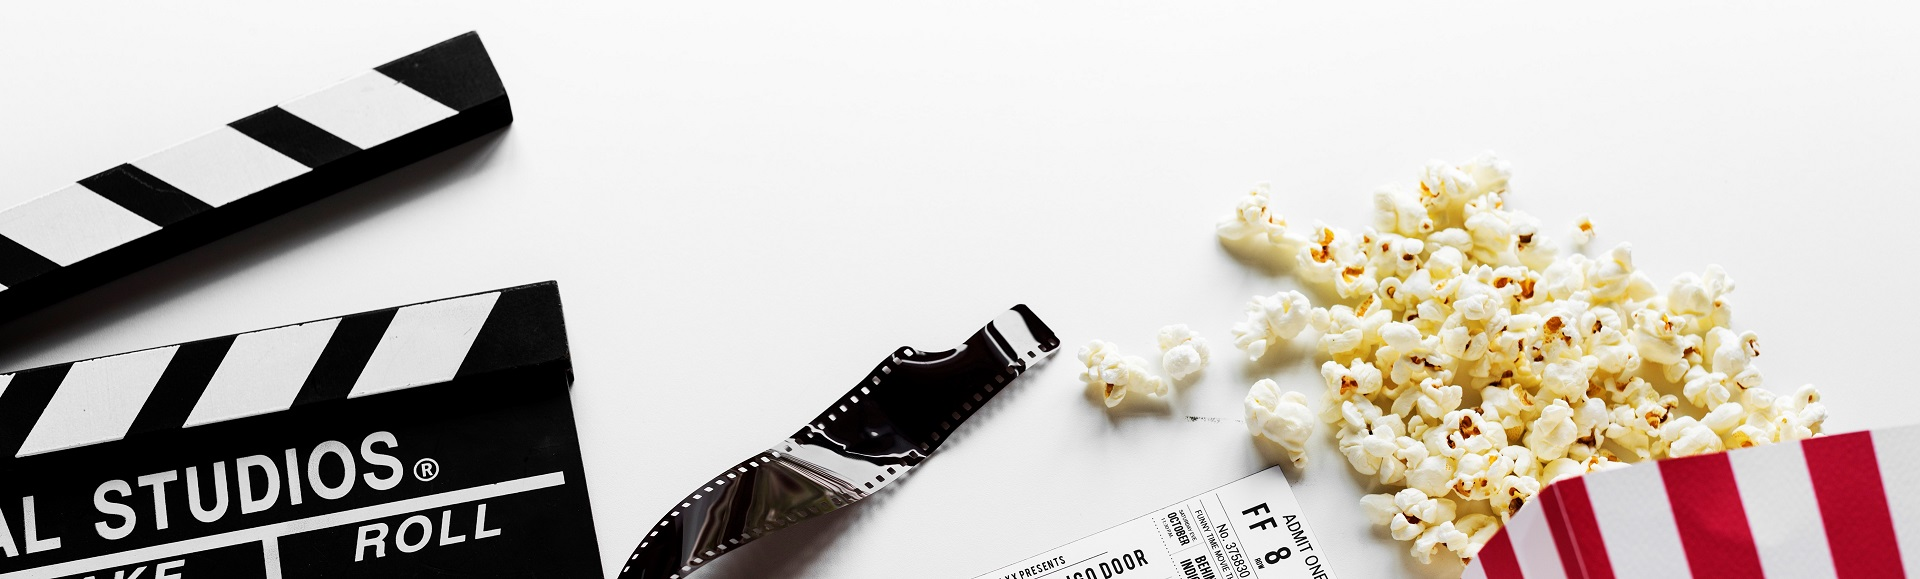
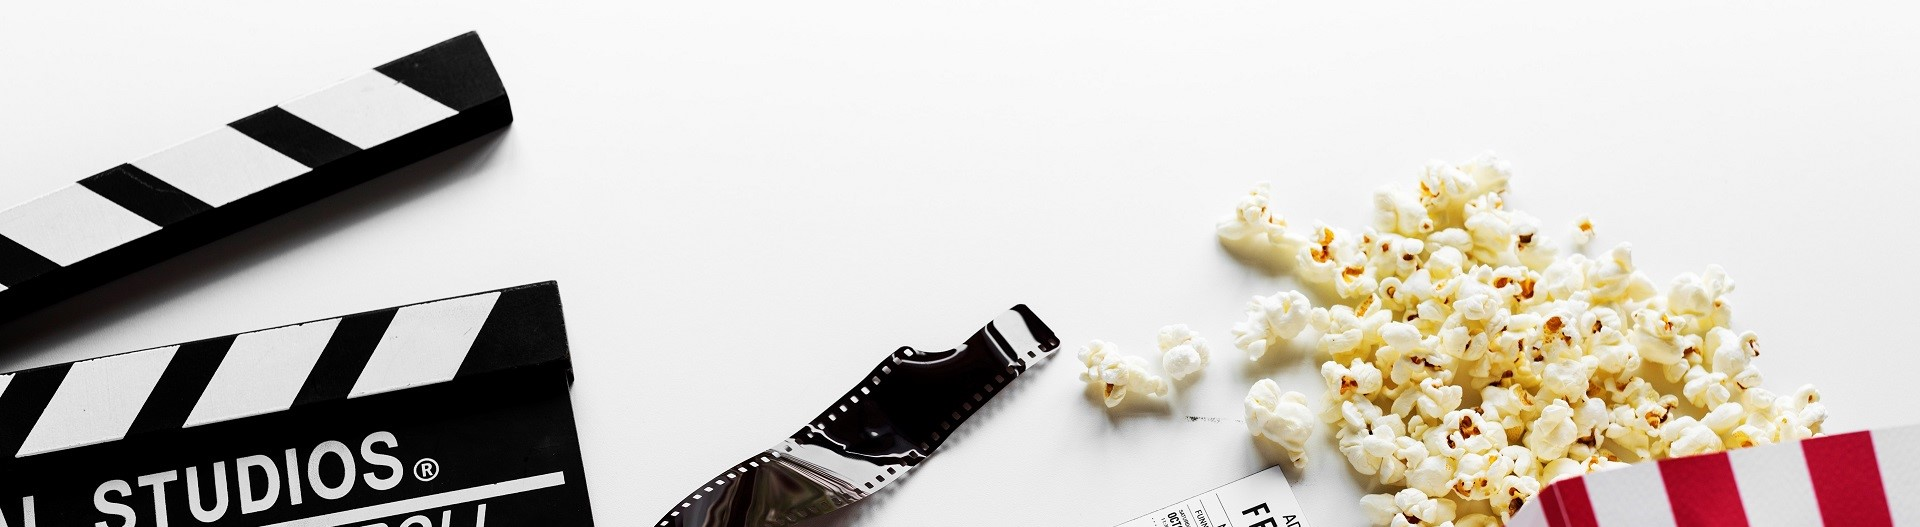
make all major page

Changed region(s): [[0.0, 0.0911, 1.0, 1.0], [0.2188, 0.0607, 0.25, 0.0911]]

diff --git a/src/style.css b/src/style.css
@@ -1,7 +1,11 @@
 @charset "UTF-8";  /* 이 페이지 인코딩하는거 */
 @import url('https://fonts.googleapis.com/css?family=Stylish&subset=korean');
 
-body{font-family: 'Stylish', "맑은 고딕", 'Malgun Gothic',"돋움",dotum; margin: 0; min-width: 960px;}
+body{
+  font-family: 'Stylish', "맑은 고딕", 'Malgun Gothic',"돋움",dotum;
+  margin: 0;
+  min-width: 960px;
+}
 
 /* div 경계선은 디자인 확인용.
 세 줄 전체 블록하고 Ctrl / 누르면 한번에 주석처리 가능.
@@ -15,40 +19,6 @@ li{border: 2px solid green;} */
 /**********************************************************************************/
 /*                   모든 페이지에 적용되는 코드                                    */
 /**********************************************************************************/
-/* 전체 프레임 */
-.frame{
-  margin:0;      /* 바깥 여백 */
-  padding: 0;    /* 안쪽 여백 */
-  border: 0;     /* 테두리 */
-}
-
-/* 상단 탭인데, 이제는 안 씀. 드롭다운 탭으로 변경.*/
-.tab{
-  position: fixed;
-  width: 100%;
-  z-index: 2;
-  display: grid;  /* 그리드로 보여줌 */
-  grid-template-columns: 1fr 1fr 1fr 1fr 1fr 2fr;
-  /* 그리드 열으로 1:1:1:1:1:2 비율 */
-}
-
-.tabitem{
-  background-color: #ff8500;    /* #RGB, #RRGGBB. 00은 검은색, ff는 흰색 */
-  display: block;  /* 블록은 한 블록 단위, inline으로 하면 한 줄 전체 사용. */
-  font-size: x-large;  /* 폰트 사이즈 설정하는 방법은 종류가 많아요.. */
-  padding: 10px 0px 10px 0px;  /* 위에서부터 시계방향. 위, 오른쪽, 아래쪽, 왼쪽 */
-  text-align: center;  /* 중앙정렬 */
-  text-decoration: none;  /* 상단탭 링크에 밑줄 없애려고. */
-}
-
-.tabNow{
-  background-color: #ffcc22;  /* 현재 선택 탭은 좀 더 밝은 색. */
-  display: block;
-  font-size: x-large;
-  padding: 10px 0px 10px 0px;
-  text-align: center;
-  text-decoration: none;
-}
 
 /* 드롭 다운 메뉴 구성 */
 .tab_drop{
@@ -81,7 +51,7 @@ li{border: 2px solid green;} */
   display: block;
   line-height: 50px;
   margin: 0px;
-  padding: 0px 25px;
+  padding: 0px;
   text-align: center;
   text-decoration: none;
 }
@@ -125,11 +95,17 @@ li{border: 2px solid green;} */
   text-decoration: none;
 }
 
+.settings{
+  float: right;
+  margin: 0px 10px 0px 0px;
+}
+
 /* 헤더 */
 .header{
   /* 이거랑 header_text는 사진 위에 글씨 올리는 코드인데 저도 구글링한거라...*/
   /* 생각해보니 여기서 url을 저렇게 정해두면 모든 페이지에서 class="header"를 사용하면 똑같은 이미지가 보이네요. 나중에 수정할게요. */
   position: relative;
+  margin-top: 50px;
   display: inline-block;
 }
 
@@ -145,7 +121,6 @@ li{border: 2px solid green;} */
 
 .header_img{  /* 헤더 이미지 부분 */
   display: block;
-  height: auto;
 }
 
 /* content 헤더 제외한 부분. 사진 아래로. */

diff --git a/src/codegenerator.js b/src/codegenerator.js
@@ -1,5 +1,5 @@
-var pages = ['news','music','movie','sport','book','fun','setting']
-var pageskr = ['뉴스','음악','영화','스포츠','책','유머','탭 설정']
+var pages = ['news','music','movie','book','sports','webtoon','fun','setting']
+var pageskr = ['뉴스','음악','영화','책','스포츠','웹툰','유머','탭 설정']
 
 var filmchart=[// 링크 주소, 이미지 주소, 영화 제목 순서
   'https://movie.naver.com/movie/bi/mi/basic.nhn?code=167638','https://movie-phinf.pstatic.net/20181106_289/1541478936071tmadh_JPEG/movie_image.jpg?type=m99_141_2','완벽한 타인',
@@ -68,7 +68,7 @@ var makecode={
                 <li><a href="#">시사</a></li>
               </ul>
             </li>
-            <li><a href="#">음악</a>
+            <li><a href="${dir_page}music.html">음악</a>
               <ul>
                 <li><a href="#">Top 10</a></li>
                 <li><a href="#">최신 앨범</a></li>
@@ -81,13 +81,13 @@ var makecode={
                 <li><a href="#">평점 및 리뷰</a></li>
               </ul>
             </li>
-            <li><a href="#">책</a>
+            <li><a href="${dir_page}book.html">책</a>
               <ul>
                 <li><a href="#">베스트 셀러</a></li>
                 <li><a href="#">스테디 셀러</a></li>
               </ul>
             </li>
-            <li><a href="#">스포츠</a>
+            <li><a href="${dir_page}sports.html">스포츠</a>
               <ul>
                 <li><a href="#">국내 야구</a></li>
                 <li><a href="#">해외 야구</a></li>
@@ -97,9 +97,9 @@ var makecode={
                 <li><a href="#">해외 농구</a></li>
               </ul>
             </li>
-            <li><a href="#">웹툰</a></li>
+            <li><a href="${dir_page}webtoon.html">웹툰</a></li>
             <li><a href="${dir_page}fun.html">FUN</a></li>
-            <li><a href="#" style="text-align:right;"><img src="${dir_img}tabicon.png" alt="" style="display:block;"></a></li>
+            <li><a href="#" class="settings"><img src="${dir_img}tabicon.png" alt="" style="display:block;"></a></li>
           </ul>
         </div>
       </div>

diff --git a/src/pages/sports.html b/src/pages/sports.html
@@ -1,0 +1,26 @@
+<!DOCTYPE html>
+<html lang="ko">
+  <head>
+    <meta charset="UTF-8"><!-- 페이지 인코딩 -->
+    <title>Juicy - 스포츠</title><!-- 브라우저 타이틀 바에 나오는 이름 -->
+    <link rel="stylesheet" href="../style.css"><!-- css, 자바스크립트 파일 가져오기-->
+    <script src="../codegenerator.js"></script><!-- 코드 자동생성 -->
+    <script src="../crawler.js"></script>
+  </head>
+  <body>
+    <script>
+      makecode.makedropdowntab("sports");  //상단 탭 자동 생성. 인자가 codegenerator.js에 있는 pages[] 항목과 일치해야 한다.
+    </script>
+    <div class="header">  <!-- 사진 들어가는 곳. -->
+      <div class="header_text">
+        <h1>스포츠</h1>
+      </div>
+      <div class="header_img">
+        <img src="../img/sports_head_img.jpg" alt="" width="100%">
+      </div>
+    </div>
+    <div class="content">
+
+    </div>
+  </body>
+</html>

diff --git a/src/pages/webtoon.html b/src/pages/webtoon.html
@@ -1,0 +1,26 @@
+<!DOCTYPE html>
+<html lang="ko">
+  <head>
+    <meta charset="UTF-8"><!-- 페이지 인코딩 -->
+    <title>Juicy - 웹툰</title><!-- 브라우저 타이틀 바에 나오는 이름 -->
+    <link rel="stylesheet" href="../style.css"><!-- css, 자바스크립트 파일 가져오기-->
+    <script src="../codegenerator.js"></script><!-- 코드 자동생성 -->
+    <script src="../crawler.js"></script>
+  </head>
+  <body>
+    <script>
+      makecode.makedropdowntab("webtoon");  //상단 탭 자동 생성. 인자가 codegenerator.js에 있는 pages[] 항목과 일치해야 한다.
+    </script>
+    <div class="header">  <!-- 사진 들어가는 곳. -->
+      <div class="header_text">
+        <h1>웹툰</h1>
+      </div>
+      <div class="header_img">
+        <img src="../img/webtoon_head_img.jpg" alt="" width="100%">
+      </div>
+    </div>
+    <div class="content">
+
+    </div>
+  </body>
+</html>

diff --git a/src/pages/music.html b/src/pages/music.html
@@ -1,0 +1,26 @@
+<!DOCTYPE html>
+<html lang="ko">
+  <head>
+    <meta charset="UTF-8"><!-- 페이지 인코딩 -->
+    <title>Juicy - 음악</title><!-- 브라우저 타이틀 바에 나오는 이름 -->
+    <link rel="stylesheet" href="../style.css"><!-- css, 자바스크립트 파일 가져오기-->
+    <script src="../codegenerator.js"></script><!-- 코드 자동생성 -->
+    <script src="../crawler.js"></script>
+  </head>
+  <body>
+    <script>
+      makecode.makedropdowntab("music");  //상단 탭 자동 생성. 인자가 codegenerator.js에 있는 pages[] 항목과 일치해야 한다.
+    </script>
+    <div class="header">  <!-- 사진 들어가는 곳. -->
+      <div class="header_text">
+        <h1>음악</h1>
+      </div>
+      <div class="header_img">
+        <img src="../img/music_head_img.jpg" alt="" width="100%">
+      </div>
+    </div>
+    <div class="content">
+
+    </div>
+  </body>
+</html>

diff --git a/src/pages/book.html b/src/pages/book.html
@@ -1,0 +1,26 @@
+<!DOCTYPE html>
+<html lang="ko">
+  <head>
+    <meta charset="UTF-8"><!-- 페이지 인코딩 -->
+    <title>Juicy - 책</title><!-- 브라우저 타이틀 바에 나오는 이름 -->
+    <link rel="stylesheet" href="../style.css"><!-- css, 자바스크립트 파일 가져오기-->
+    <script src="../codegenerator.js"></script><!-- 코드 자동생성 -->
+    <script src="../crawler.js"></script>
+  </head>
+  <body>
+    <script>
+      makecode.makedropdowntab("book");  //상단 탭 자동 생성. 인자가 codegenerator.js에 있는 pages[] 항목과 일치해야 한다.
+    </script>
+    <div class="header">  <!-- 사진 들어가는 곳. -->
+      <div class="header_text">
+        <h1>책</h1>
+      </div>
+      <div class="header_img">
+        <img src="../img/book_head_img.jpg" alt="" width="100%">
+      </div>
+    </div>
+    <div class="content">
+
+    </div>
+  </body>
+</html>

diff --git a/index.html b/index.html
@@ -16,7 +16,7 @@
     </div>
     <dir class="content">
       <dir class="main">
-        <img src="./src/img/mainbanner.png" alt="">
+        <img src="./src/img/mainbanner.png" alt="" style="width: 100vmin;">
       </dir>
     </dir>
   </body>
